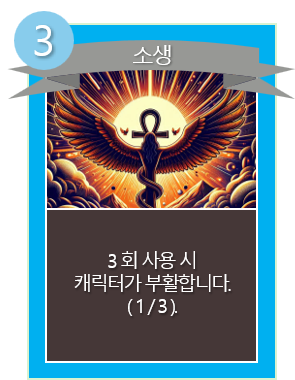
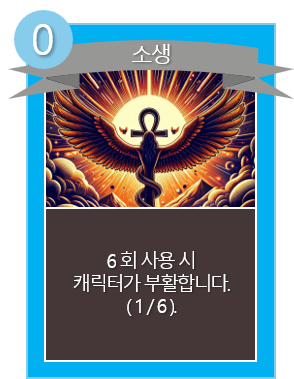
부활 메커니즘 변경
- 비용 3 -> 0
- 필요로 하는 사용 수 3 -> 6

diff --git a/card_list.py b/card_list.py
@@ -563,10 +563,14 @@ class PerformRevivalObject:
 class RevivalKnight(Card):
     def __init__(self):
         from battle_mode import knight
-        super().__init__("revival_knight", knight, 3, "resource/card_revival_knight_0.png")
+        super().__init__("revival_knight", knight, 0, "resource/card_revival_knight_0.png")
         self.original_image = self.image
         self.image_cur_uses_1 = load_image('resource/card_revival_knight_1.png')
         self.image_cur_uses_2 = load_image('resource/card_revival_knight_2.png')
+        self.image_cur_uses_3 = load_image('resource/card_revival_knight_3.png')
+        self.image_cur_uses_4 = load_image('resource/card_revival_knight_4.png')
+        self.image_cur_uses_5 = load_image('resource/card_revival_knight_5.png')
+
 
         self.range = 2000
         self.is_summon_obj = True  # 미리보기가 필요한가
@@ -578,7 +582,7 @@ class RevivalKnight(Card):
         event_system.add_listener('knight_revival_count_changed', self.update_image)
 
     def use(self, x, y):
-        if for_global.knight_revival_count == 0:
+        if for_global.knight_revival_count < 5:
             # 카드 사용 효과 애니메이션 출력
             revival_effect = FadeOutEffectAnimation(
                 self.user,
@@ -591,24 +595,9 @@ class RevivalKnight(Card):
             game_world.add_object(revival_effect, 8)
 
             for_global.knight_revival_count += 1
-            event_system.trigger('knight_revival_count_changed', 1)
+            event_system.trigger('knight_revival_count_changed', for_global.knight_revival_count)
 
-        elif for_global.knight_revival_count == 1:
-            # 카드 사용 효과 애니메이션 출력
-            revival_effect = FadeOutEffectAnimation(
-                self.user,
-                self.user.x, self.user.y,
-                211, 333,
-                105, 165,
-                'resource/revival_effect_1.png',
-                1, 0.75
-            )
-            game_world.add_object(revival_effect, 8)
-
-            for_global.knight_revival_count += 1
-            event_system.trigger('knight_revival_count_changed', 2)
-
-        elif for_global.knight_revival_count == 2:
+        elif for_global.knight_revival_count == 5:
             # 카드 사용 효과 애니메이션 출력
             revival_animation = PerformRevivalObject(self.user, x, y, self.radius)
             game_world.add_object(revival_animation, 8)
@@ -626,6 +615,12 @@ class RevivalKnight(Card):
             self.image = self.image_cur_uses_1
         elif cur_revival_count == 2:
             self.image = self.image_cur_uses_2
+        elif cur_revival_count == 3:
+            self.image = self.image_cur_uses_3
+        elif cur_revival_count == 4:
+            self.image = self.image_cur_uses_4
+        elif cur_revival_count == 5:
+            self.image = self.image_cur_uses_5
             self.radius = 2000
         else:
             pass
@@ -644,10 +639,14 @@ class RevivalKnight3(RevivalKnight):
 class RevivalMage(Card):
     def __init__(self):
         from battle_mode import mage
-        super().__init__("revival_mage", mage, 3, "resource/card_revival_mage_0.png")
+        super().__init__("revival_mage", mage, 0, "resource/card_revival_mage_0.png")
         self.original_image = self.image
         self.image_cur_uses_1 = load_image('resource/card_revival_mage_1.png')
         self.image_cur_uses_2 = load_image('resource/card_revival_mage_2.png')
+        self.image_cur_uses_3 = load_image('resource/card_revival_mage_3.png')
+        self.image_cur_uses_4 = load_image('resource/card_revival_mage_4.png')
+        self.image_cur_uses_5 = load_image('resource/card_revival_mage_5.png')
+
 
         self.range = 2000
         self.is_summon_obj = True  # 미리보기가 필요한가
@@ -659,7 +658,7 @@ class RevivalMage(Card):
         event_system.add_listener('mage_revival_count_changed', self.update_image)
 
     def use(self, x, y):
-        if for_global.mage_revival_count == 0:
+        if for_global.mage_revival_count < 5:
             # 카드 사용 효과 애니메이션 출력
             revival_effect = FadeOutEffectAnimation(
                 self.user,
@@ -672,24 +671,8 @@ class RevivalMage(Card):
             game_world.add_object(revival_effect, 8)
 
             for_global.mage_revival_count += 1
-            event_system.trigger('mage_revival_count_changed', 1)
-
-        elif for_global.mage_revival_count == 1:
-            # 카드 사용 효과 애니메이션 출력
-            revival_effect = FadeOutEffectAnimation(
-                self.user,
-                self.user.x, self.user.y,
-                211, 333,
-                105, 165,
-                'resource/revival_effect_1.png',
-                1, 0.75
-            )
-            game_world.add_object(revival_effect, 8)
-
-            for_global.mage_revival_count += 1
-            event_system.trigger('mage_revival_count_changed', 2)
-
-        elif for_global.mage_revival_count == 2:
+            event_system.trigger('mage_revival_count_changed', for_global.mage_revival_count)
+        elif for_global.mage_revival_count == 5:
             # 카드 사용 효과 애니메이션 출력
             revival_animation = PerformRevivalObject(self.user, x, y, self.radius)
             game_world.add_object(revival_animation, 8)
@@ -707,6 +690,12 @@ class RevivalMage(Card):
             self.image = self.image_cur_uses_1
         elif cur_revival_count == 2:
             self.image = self.image_cur_uses_2
+        elif cur_revival_count == 3:
+            self.image = self.image_cur_uses_3
+        elif cur_revival_count == 4:
+            self.image = self.image_cur_uses_4
+        elif cur_revival_count == 5:
+            self.image = self.image_cur_uses_5
             self.radius = 2000
         else:
             pass
@@ -725,10 +714,14 @@ class RevivalMage3(RevivalMage):
 class RevivalBowman(Card):
     def __init__(self):
         from battle_mode import bowman
-        super().__init__("revival_bowman", bowman, 3, "resource/card_revival_bowman_0.png")
+        super().__init__("revival_bowman", bowman, 0, "resource/card_revival_bowman_0.png")
         self.original_image = self.image
         self.image_cur_uses_1 = load_image('resource/card_revival_bowman_1.png')
         self.image_cur_uses_2 = load_image('resource/card_revival_bowman_2.png')
+        self.image_cur_uses_3 = load_image('resource/card_revival_bowman_3.png')
+        self.image_cur_uses_4 = load_image('resource/card_revival_bowman_4.png')
+        self.image_cur_uses_5 = load_image('resource/card_revival_bowman_5.png')
+
 
         self.range = 2000
         self.is_summon_obj = True  # 미리보기가 필요한가
@@ -740,7 +733,7 @@ class RevivalBowman(Card):
         event_system.add_listener('bowman_revival_count_changed', self.update_image)
 
     def use(self, x, y):
-        if for_global.bowman_revival_count == 0:
+        if for_global.bowman_revival_count < 5:
             # 카드 사용 효과 애니메이션 출력
             revival_effect = FadeOutEffectAnimation(
                 self.user,
@@ -753,24 +746,9 @@ class RevivalBowman(Card):
             game_world.add_object(revival_effect, 8)
 
             for_global.bowman_revival_count += 1
-            event_system.trigger('bowman_revival_count_changed', 1)
+            event_system.trigger('bowman_revival_count_changed', for_global.bowman_revival_count)
 
-        elif for_global.bowman_revival_count == 1:
-            # 카드 사용 효과 애니메이션 출력
-            revival_effect = FadeOutEffectAnimation(
-                self.user,
-                self.user.x, self.user.y,
-                211, 333,
-                105, 165,
-                'resource/revival_effect_1.png',
-                1, 0.75
-            )
-            game_world.add_object(revival_effect, 8)
-
-            for_global.bowman_revival_count += 1
-            event_system.trigger('bowman_revival_count_changed', 2)
-
-        elif for_global.bowman_revival_count == 2:
+        elif for_global.bowman_revival_count == 5:
             # 카드 사용 효과 애니메이션 출력
             revival_animation = PerformRevivalObject(self.user, x, y, self.radius)
             game_world.add_object(revival_animation, 8)
@@ -788,6 +766,12 @@ class RevivalBowman(Card):
             self.image = self.image_cur_uses_1
         elif cur_revival_count == 2:
             self.image = self.image_cur_uses_2
+        elif cur_revival_count == 3:
+            self.image = self.image_cur_uses_3
+        elif cur_revival_count == 4:
+            self.image = self.image_cur_uses_4
+        elif cur_revival_count == 5:
+            self.image = self.image_cur_uses_5
             self.radius = 2000
         else:
             pass
